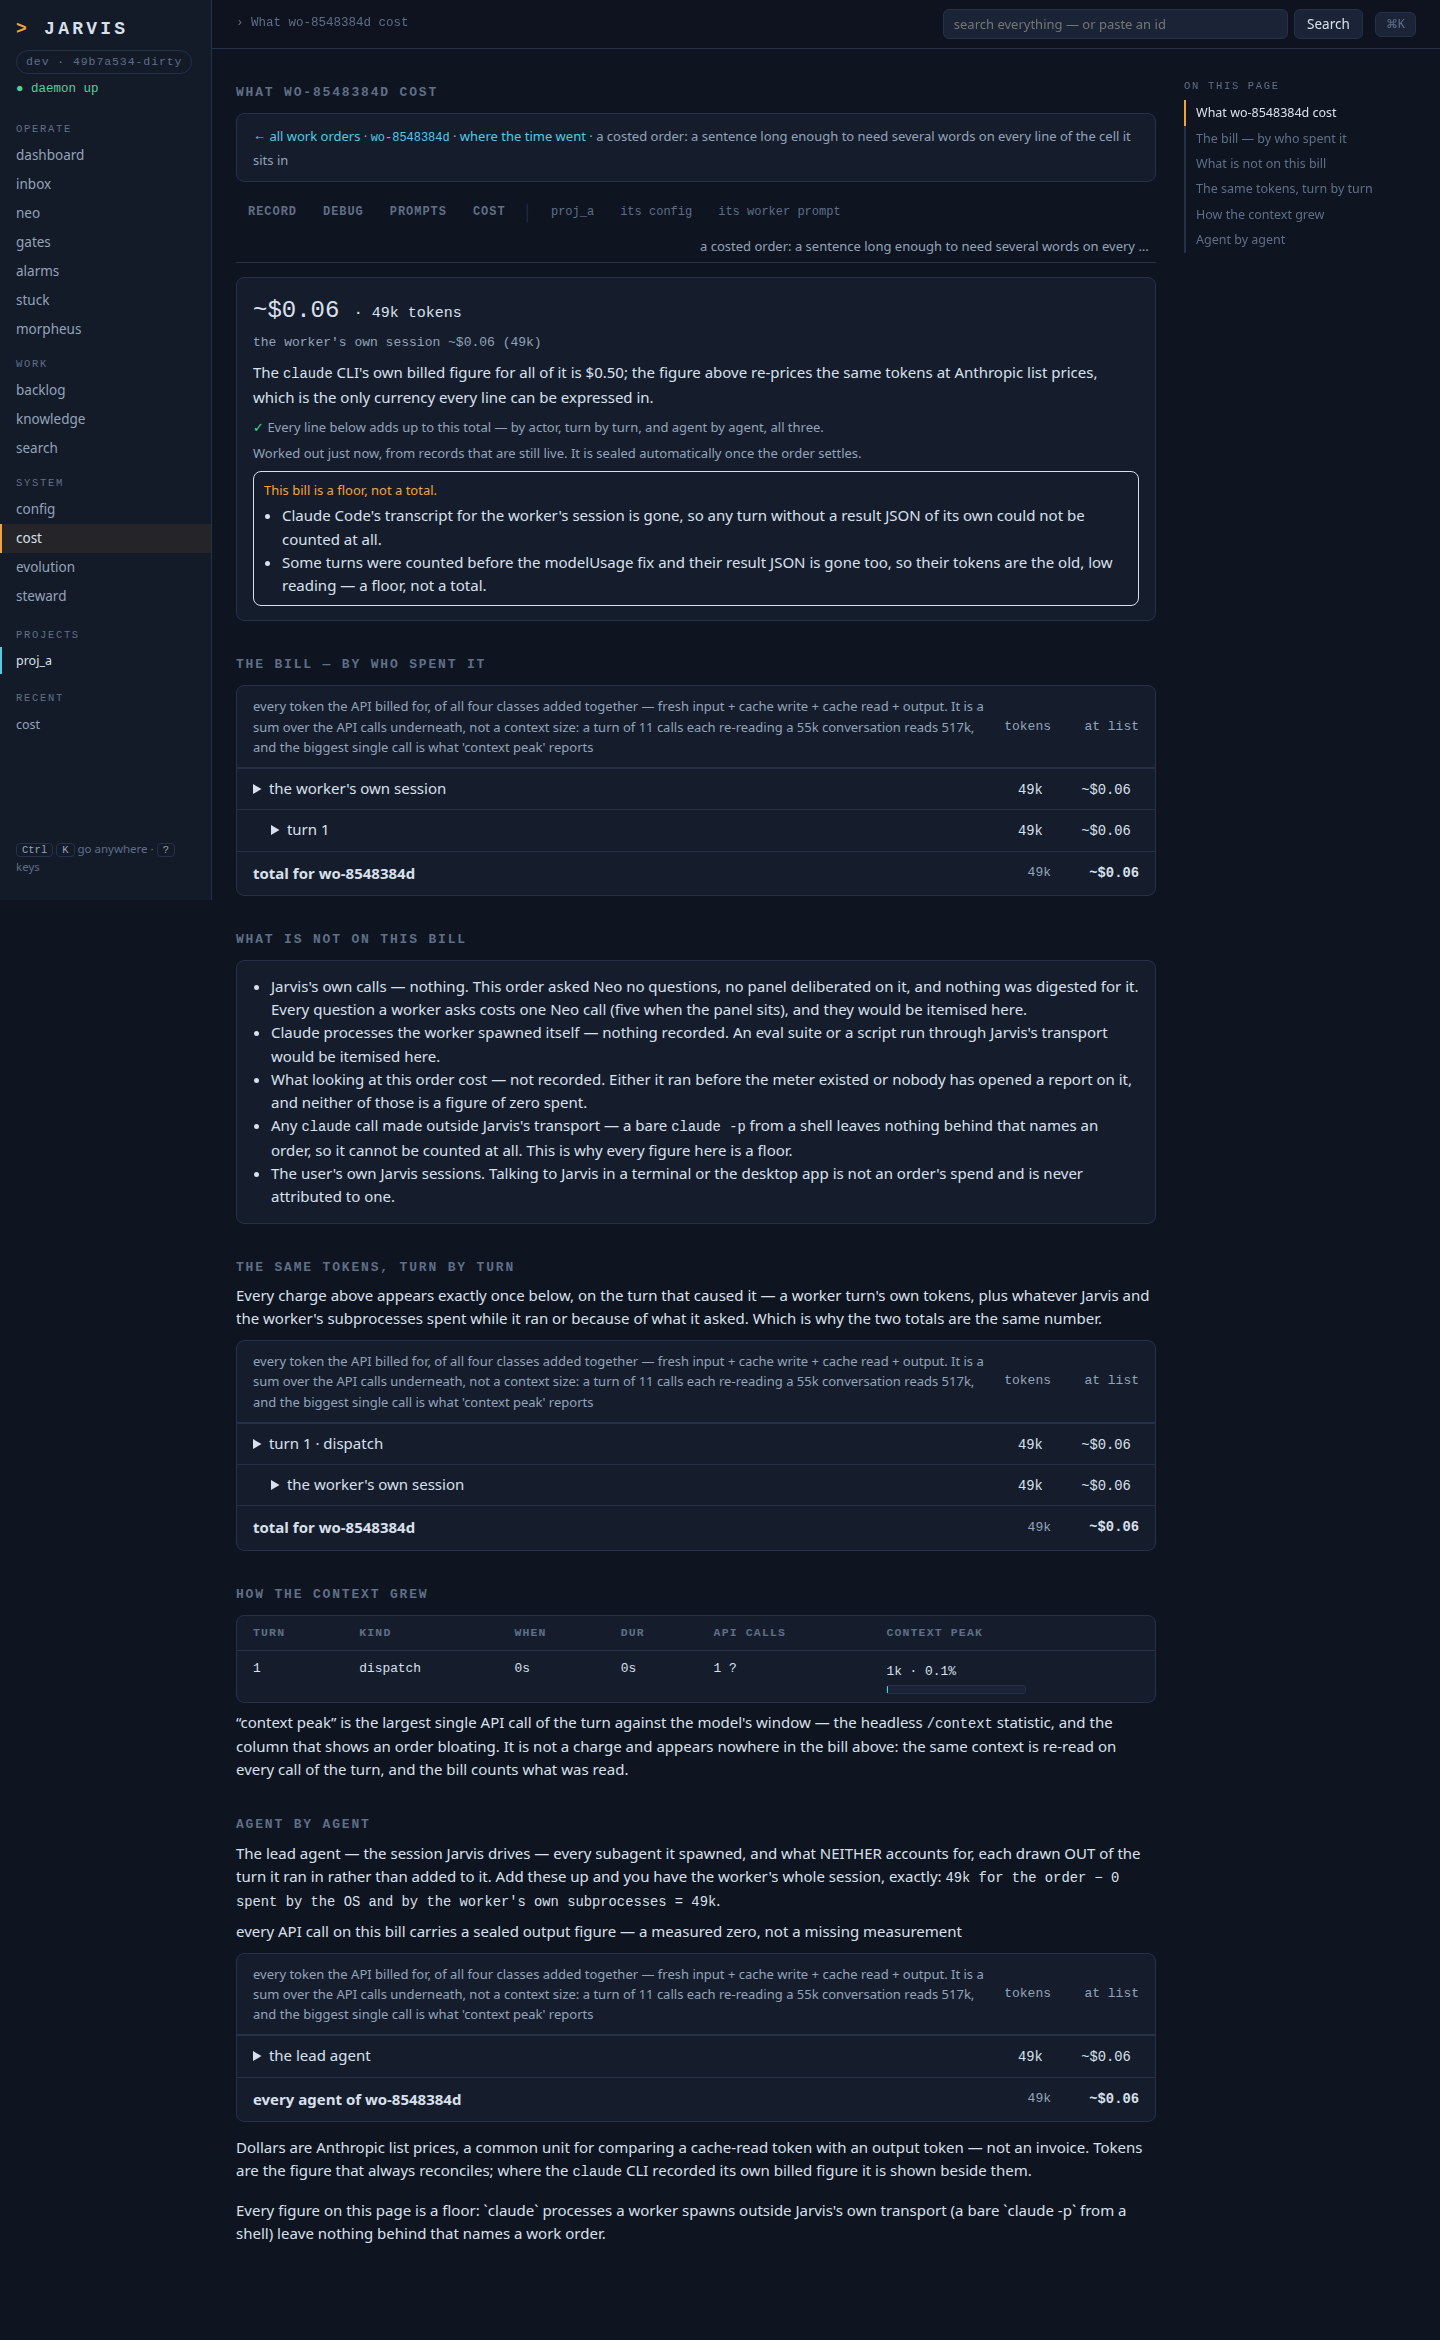
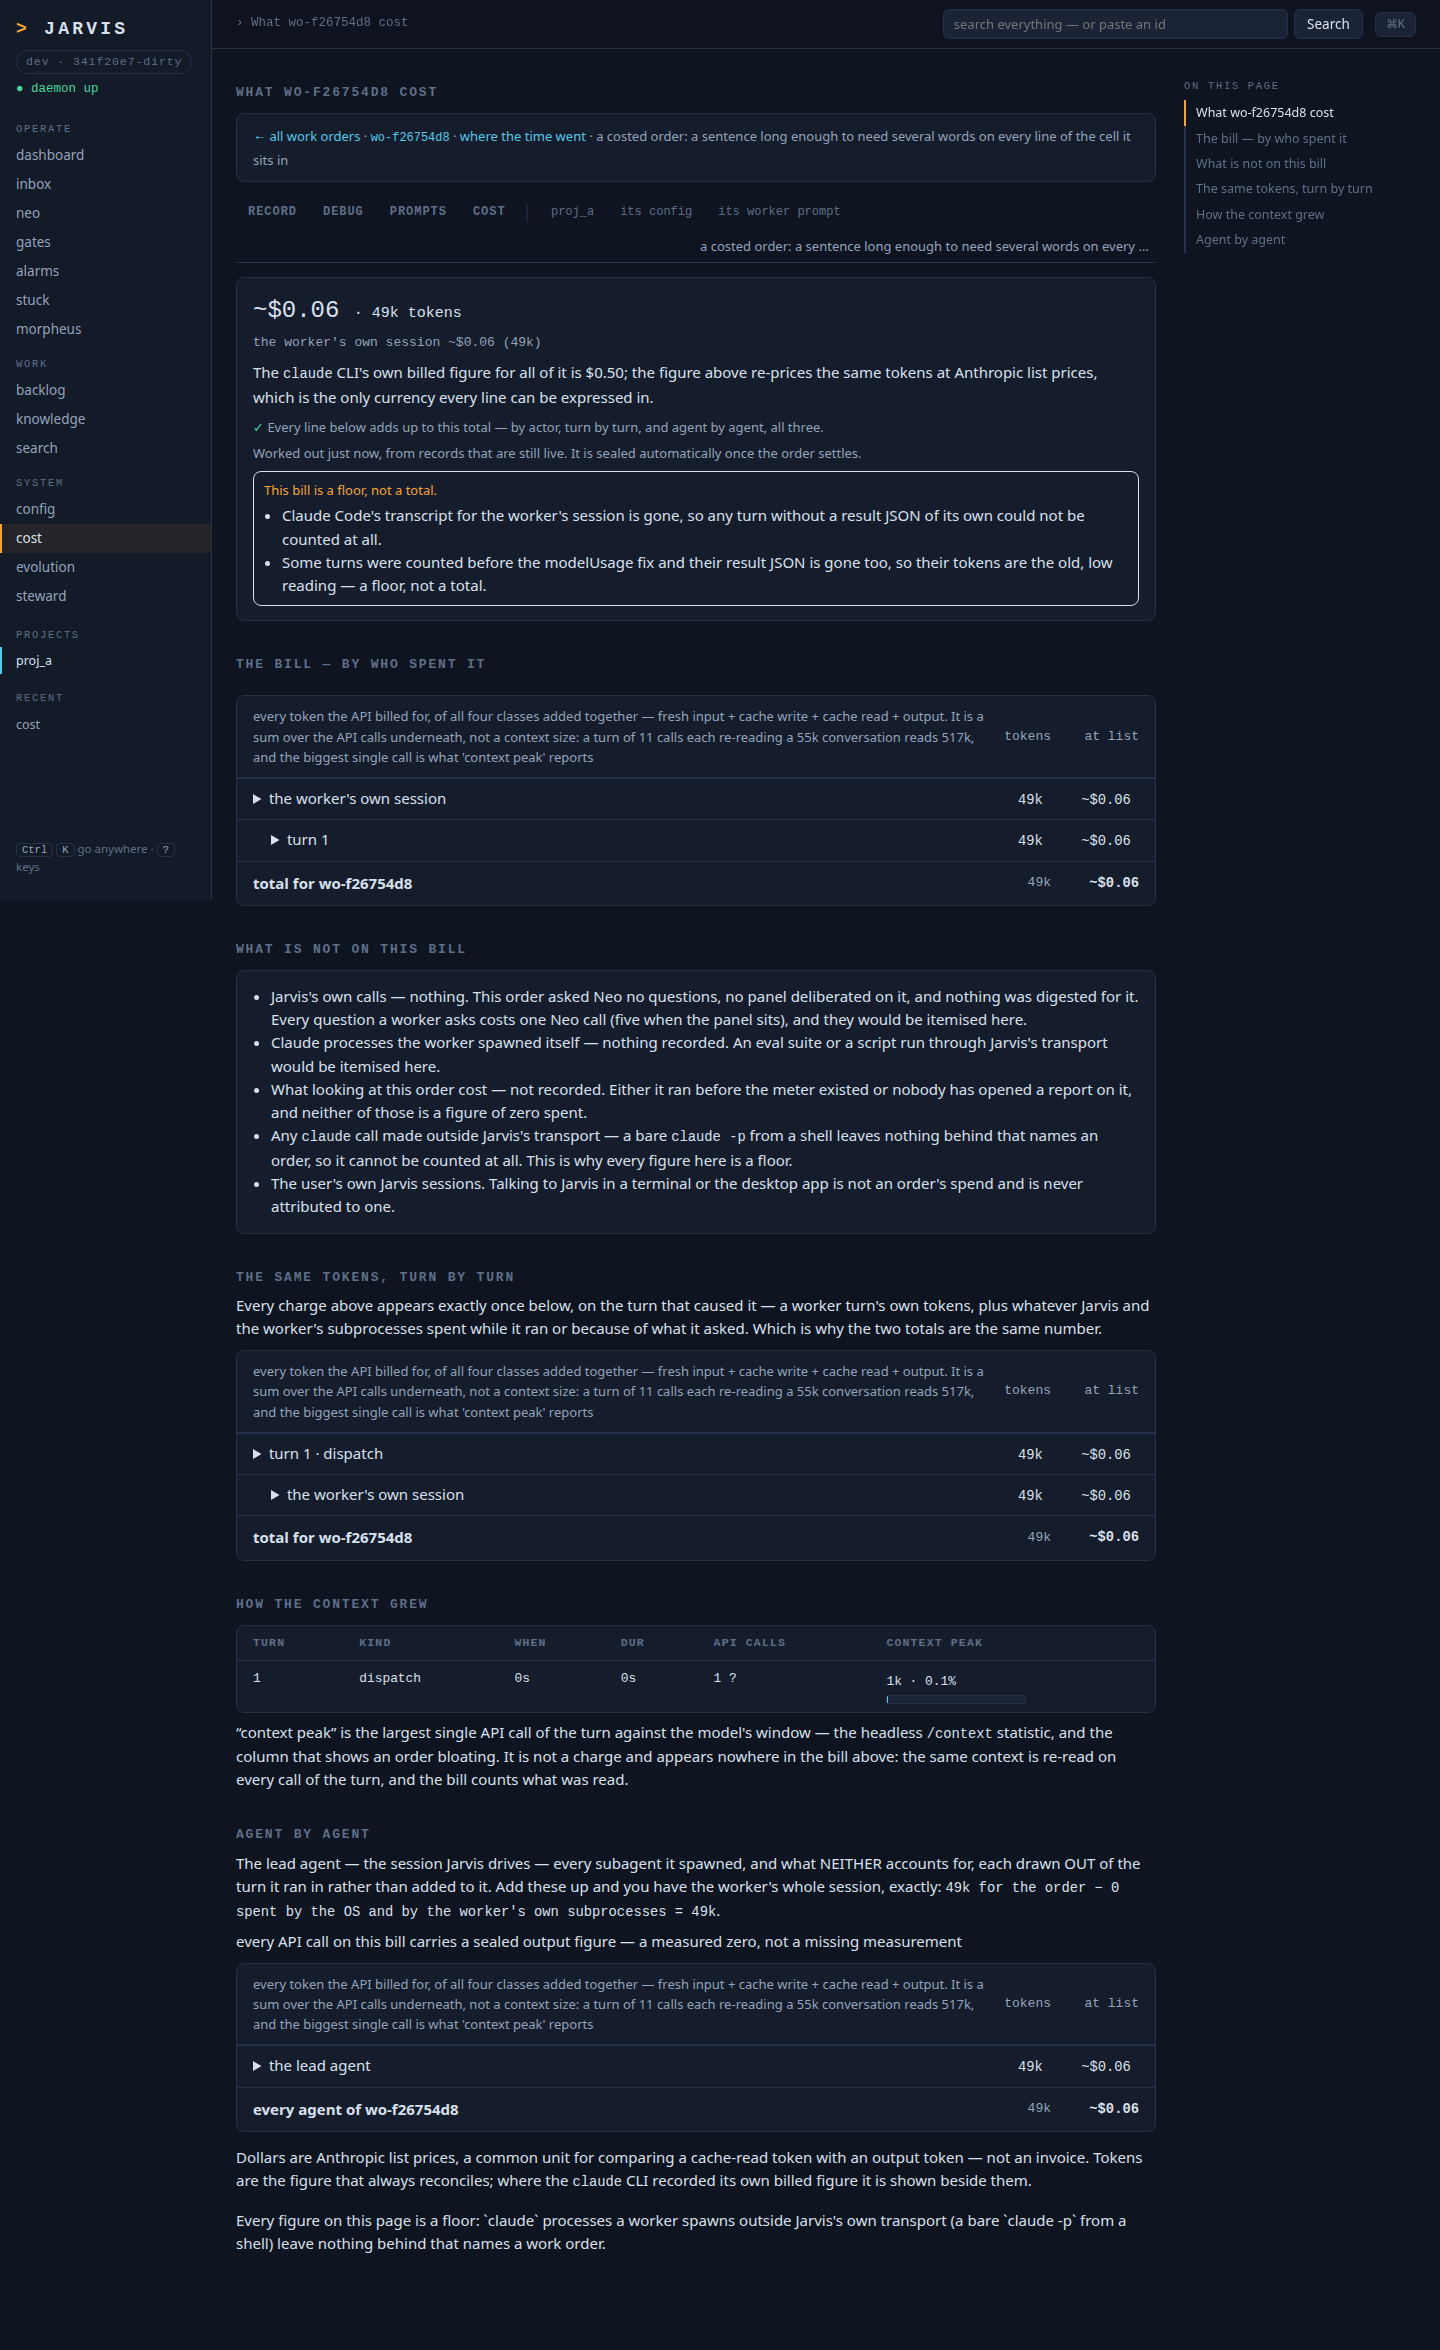
[wo-7330a479] Revert _bill.html; wrap bill views in bill.html; restore Q216 caveat
Order pages render the bill partial unchanged again (review round 2).

Claude-Session: https://claude.ai/code/session_01QUrrkgYqxMQ4TP2pHsPkWw

diff --git a/src/jarvis/ui/templates/_bill.html b/src/jarvis/ui/templates/_bill.html
@@ -15,8 +15,7 @@
    total explains nothing, and the four classes are priced 20x apart. #}
 {% macro breakdown(line) %}
 {% set t = line.tokens %}{% set c = line.cost.by_class %}
-{# Scrolls sideways on a phone rather than squeezing its notes (spec 2026-10-29 dashboard §8) #}
-<div class="table-wrap"><table style="margin: 4px 0 0; font-size: 13px;">
+<table style="margin: 4px 0 0; font-size: 13px;">
   <tr><th style="text-align:left">what</th><th style="text-align:right">tokens</th>
       <th style="text-align:right">rate</th><th style="text-align:right">at list</th>
       <th style="text-align:left"></th></tr>
@@ -32,7 +31,7 @@
       <td class="mono" style="text-align:right">{{ fmt_tok(t.cache_write) }}</td>
       <td class="mono sub" style="text-align:right">{{ '%.2f'|format(write_rate_of(line)) }}×</td>
       <td class="mono" style="text-align:right">${{ '%.3f'|format(c.cache_write) }}</td>
-      <td class="sub prose">stored in the prompt cache — {{ rate_note(line, fmt_tok) }}</td></tr>
+      <td class="sub">stored in the prompt cache — {{ rate_note(line, fmt_tok) }}</td></tr>
   <tr><td>cache read</td>
       <td class="mono" style="text-align:right">{{ fmt_tok(t.cache_read) }}</td>
       <td class="mono sub" style="text-align:right">0.1×</td>
@@ -49,14 +48,14 @@
       <td></td>
       <td class="mono" style="text-align:right">
         <strong>${{ '%.3f'|format(line.cost.list_usd) }}</strong></td>
-      <td class="sub prose">
+      <td class="sub">
         {%- if line.exact_missing == 0 %}the CLI billed
           ${{ '%.3f'|format(line.cost.exact_usd) }} for it
         {%- elif line.cost.exact_usd %}the CLI's own figure covers
           ${{ '%.3f'|format(line.cost.exact_usd) }} of this; the rest is priced at list
         {%- else %}priced at list — no billed figure for this line{% endif -%}
       </td></tr>
-</table></div>
+</table>
 {% if line.models %}
 <p class="sub mono" style="margin: 4px 0 0;">
   {{ line.models|join(' · ') }}

diff --git a/src/jarvis/ui/templates/alarms.html b/src/jarvis/ui/templates/alarms.html
@@ -41,7 +41,18 @@
       </li>
       {% endfor %}
     </ul>
-    {# One ack per subject, posted to the CARRIER work order (Neo, question 216). #}
+    {# One button for the whole subject, not one per alarm: the attention flag carries a
+       single sentence, so there was only ever one ask to answer. It posts to the CARRIER
+       work order even when the subject is a feature — `work_orders` is where the ack has
+       an `acknowledged_blockers` column to stick in. `back` returns the user to this
+       queue instead of the order's page: they are working through a list.
+
+       KNOWN, AND DELIBERATELY NOT FIXED HERE (Neo, question 216): a feature whose
+       findings were filed through TWO carriers is one group with one button, and that
+       button clears one carrier's flag — so the group returns still labelled "all N".
+       `carrier_for_feature` is deterministic, so this only arises when the carrier
+       changed between sweeps. Widening the ack to every carrier is ack semantics and
+       belongs where `ops.ack_attention` is being extended, not in a read. #}
     <form method="post" action="/wo/{{ g.project }}/{{ g.wo_id }}/ack" class="inline">
       <input type="hidden" name="back" value="alarms">
       <button>✓ Acknowledge{% if g.alarms|length > 1 %} all {{ g.alarms|length }}{% endif %}</button>

diff --git a/src/jarvis/ui/templates/bill.html b/src/jarvis/ui/templates/bill.html
@@ -33,7 +33,7 @@
    arrives with; the same tokens re-grouped by turn follow, because "when" is the
    question they leave with. #}
 <h2>The bill — by who spent it</h2>
-{{ bill_ui.view(bill.actors, bill.total, 'total for ' ~ bill.id) }}
+<div class="table-wrap">{{ bill_ui.view(bill.actors, bill.total, 'total for ' ~ bill.id) }}</div>
 
 {# What is NOT here, said out loud. The question that prompted this page was "not a
    single token spent on the OS that wasn't jarvis?" — and the honest answer is a list
@@ -101,7 +101,7 @@
   turn's own tokens, plus whatever Jarvis and the worker's subprocesses spent while it
   ran or because of what it asked. Which is why the two totals are the same number.
 </p>
-{{ bill_ui.view(bill.turns, bill.total, 'total for ' ~ bill.id) }}
+<div class="table-wrap">{{ bill_ui.view(bill.turns, bill.total, 'total for ' ~ bill.id) }}</div>
 
 {% if turn_rows %}
 <h2>How the context grew</h2>
@@ -271,7 +271,7 @@
 <p class="sub" style="margin: 6px 0 0;">{{ placeholder_zero }}</p>
 {% endif %}
 {% endif %}
-{{ bill_ui.view(bill.agents, worker, 'every agent of ' ~ bill.id) }}
+<div class="table-wrap">{{ bill_ui.view(bill.agents, worker, 'every agent of ' ~ bill.id) }}</div>
 {% endif %}
 
 {% for note in bill.notes %}
